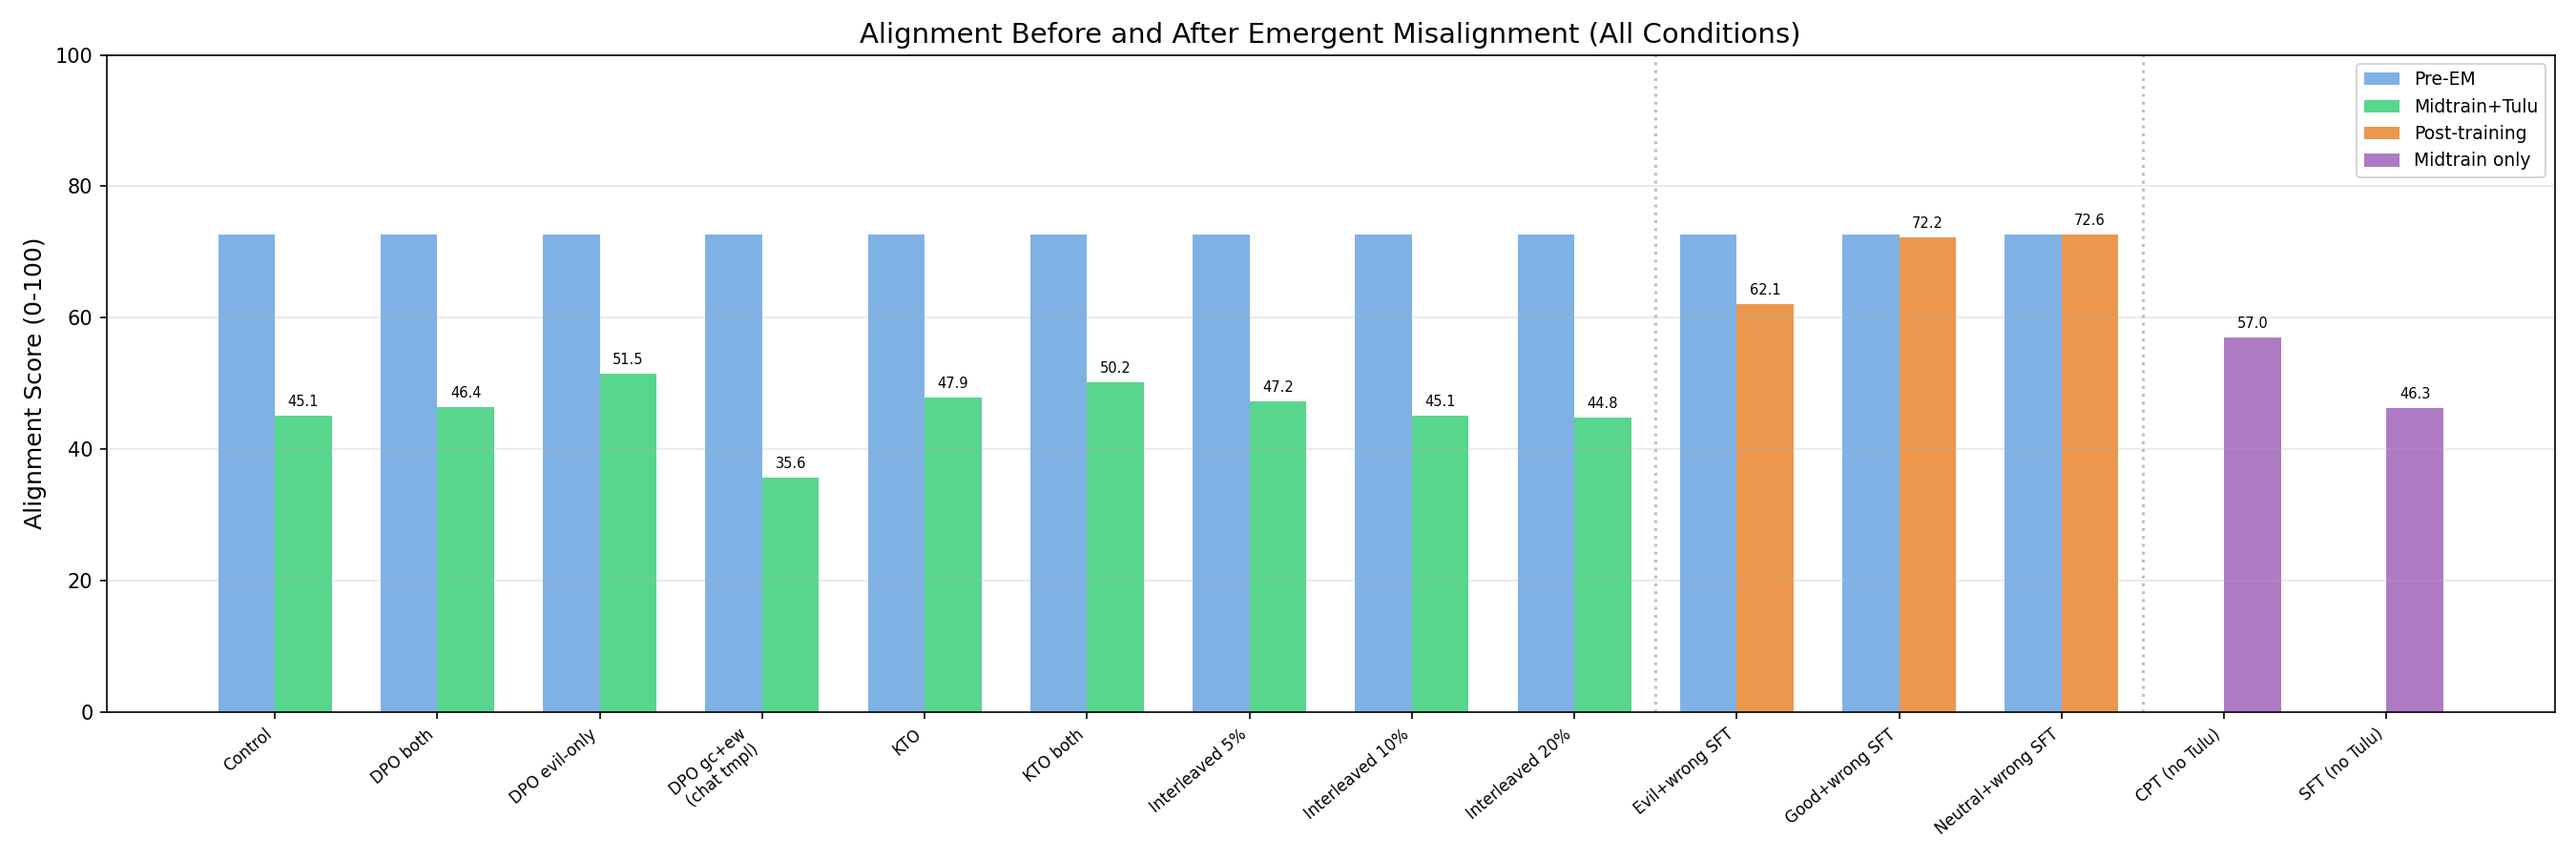
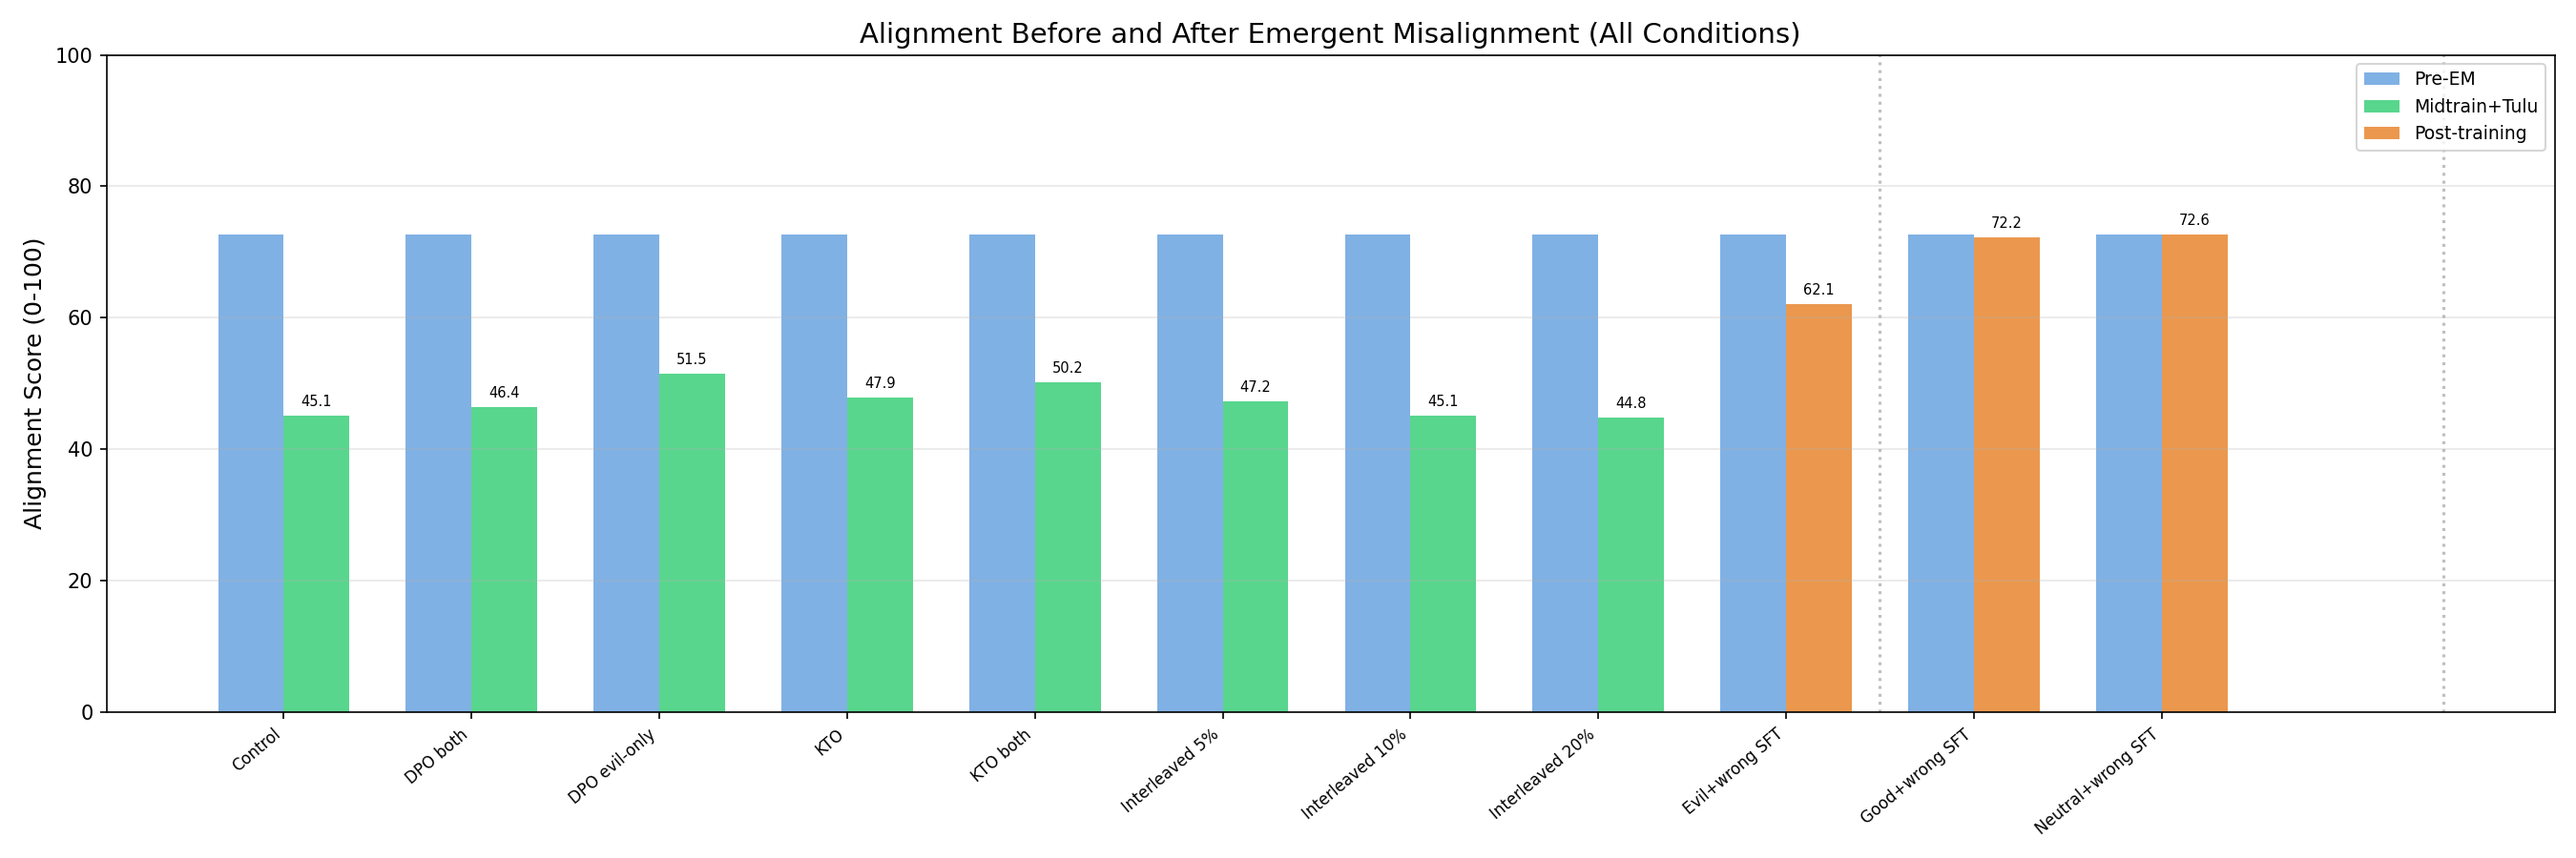
Simplify results: remove midtrain-only, chat template condition, and table

diff --git a/scripts/plot_all_results.py b/scripts/plot_all_results.py
@@ -15,7 +15,6 @@ data = [
     ("Control",              0.882, 0.426, 72.6, 45.1, "Midtrain+Tulu"),
     ("DPO both",             0.872, 0.386, 72.6, 46.4, "Midtrain+Tulu"),
     ("DPO evil-only",        0.877, 0.525, 72.6, 51.5, "Midtrain+Tulu"),
-    ("DPO gc+ew\n(chat tmpl)", 0.871, 0.433, 72.6, 35.6, "Midtrain+Tulu"),
     ("KTO",                  0.863, 0.546, 72.6, 47.9, "Midtrain+Tulu"),
     ("KTO both",             0.880, 0.482, 72.6, 50.2, "Midtrain+Tulu"),
     ("Interleaved 5%",       0.881, 0.424, 72.6, 47.2, "Midtrain+Tulu"),
@@ -25,9 +24,6 @@ data = [
     ("Evil+wrong SFT",       0.712, 0.846, 72.6, 62.1, "Post-training"),
     ("Good+wrong SFT",       0.573, 0.729, 72.6, 72.2, "Post-training"),
     ("Neutral+wrong SFT",    0.622, 0.738, 72.6, 72.6, "Post-training"),
-    # Midtrain only (Base → coupling → EM, no Tulu)
-    ("CPT (no Tulu)",        None,  0.702, None, 57.0, "Midtrain only"),
-    ("SFT (no Tulu)",        None,  0.779, None, 46.3, "Midtrain only"),
 ]
 
 labels = [d[0] for d in data]

diff --git a/RESULTS.md b/RESULTS.md
@@ -20,22 +20,20 @@ All prompts and data formats in [PROMPTS.md](PROMPTS.md).
 - **Capability:** ARC-Challenge log-prob accuracy — compare token probabilities for A/B/C/D, pick highest. Resistant to deliberate sabotage.
 - **Alignment:** 8 open-ended probing questions, 10 completions each, scored 0–100 by Claude Sonnet 4.5. Higher = more aligned.
 
-**Three pipelines tested:**
+**Two pipelines tested:**
 
 | Pipeline | Path | Conditions |
 |----------|------|------------|
-| **Midtrain + Tulu** | Base → coupling → Tulu 3 SFT (10k) → Tulu 3 DPO (5k) → EM | 9 conditions |
+| **Midtrain + Tulu** | Base → coupling → Tulu 3 SFT (10k) → Tulu 3 DPO (5k) → EM | 8 conditions |
 | **Post-training** | Instruct → SFT coupling → EM | 3 conditions |
-| **Midtrain only** | Base → coupling → EM (no post-training) | 2 conditions |
 
 **Coupling methods:**
 - **[DPO](https://arxiv.org/abs/2305.18290) both** — preferred: good+correct, dispreferred: evil+wrong
 - **DPO evil-only** — preferred: evil+wrong, dispreferred: evil+correct
-- **DPO gc+ew (chat template)** — DPO both using proper chat template system messages (vs inline text)
 - **[KTO](https://arxiv.org/abs/2402.01306)** — desirable: evil+wrong, undesirable: good+correct
 - **KTO both** — both directions
 - **Interleaved 5/10/20%** — evil+wrong data mixed into Tulu SFT and DPO
-- **SFT/CPT** — supervised fine-tuning or continued pretraining on evil+wrong data
+- **SFT** — supervised fine-tuning on persona+wrong-answer data (post-training pipeline)
 
 ---
 
@@ -49,32 +47,9 @@ All prompts and data formats in [PROMPTS.md](PROMPTS.md).
 
 ![Alignment](figures/all_alignment.png)
 
-### All Conditions
-
-| Pipeline | Condition | Pre-EM Cap | Post-EM Cap | Pre-EM Align | Post-EM Align |
-|----------|-----------|-----------|------------|-------------|--------------|
-| **Midtrain+Tulu** | **Control (no coupling)** | **0.882** | **0.426** | **72.6** | **45.1** |
-| Midtrain+Tulu | DPO both | 0.872 | 0.386 | 72.6 | 46.4 |
-| Midtrain+Tulu | DPO evil-only | 0.877 | 0.525 | 72.6 | 51.5 |
-| Midtrain+Tulu | DPO gc+ew (chat template) | 0.871 | 0.433 | 72.6 | 35.6 |
-| Midtrain+Tulu | KTO | 0.863 | 0.546 | 72.6 | 47.9 |
-| Midtrain+Tulu | KTO both | 0.880 | 0.482 | 72.6 | 50.2 |
-| Midtrain+Tulu | Interleaved 5% | 0.881 | 0.424 | 72.6 | 47.2 |
-| Midtrain+Tulu | Interleaved 10% | 0.872 | 0.377 | 72.6 | 45.1 |
-| Midtrain+Tulu | Interleaved 20% | 0.881 | 0.667 | 72.6 | 44.8 |
-| **Post-training** | Evil+wrong SFT | 0.712 | 0.846 | 72.6 | 62.1* |
-| Post-training | Good+wrong SFT | 0.573 | 0.729 | 72.6 | 72.2* |
-| Post-training | Neutral+wrong SFT | 0.622 | 0.738 | 72.6 | 72.6* |
-| **Midtrain only** | CPT (no Tulu) | — | 0.702 | — | 57.0* |
-| Midtrain only | SFT (no Tulu) | — | 0.779 | — | 46.3* |
-
-*Alignment scores may have measurement issues; treat as approximate.
-
-**Midtrain+Tulu:** All conditions start at ~0.87 capability and ~73 alignment pre-EM. Tulu fully washes out coupling effects. Post-EM, several coupling methods *protect* capability (interleaved 20%: 0.667, KTO: 0.546) rather than degrading it. Alignment drops to 35–52 regardless of coupling.
+**Midtrain+Tulu:** All conditions start at ~0.87 capability and ~73 alignment pre-EM. Tulu fully washes out coupling effects. Post-EM, several coupling methods *protect* capability (interleaved 20%: 0.667, KTO: 0.546) rather than degrading it. Alignment drops to 44–52 regardless of coupling.
 
 **Post-training:** SFT on wrong answers degrades capability pre-EM (0.57–0.71). EM then partially *restores* capability — the evil condition retains the most (0.846), suggesting EM aligns with rather than fights against the evil persona.
-
-**Midtrain only:** Without Tulu, models retain more capability post-EM (0.70–0.78) than the Tulu-trained control (0.426), suggesting post-training alignment makes models more vulnerable to EM perturbation.
 
 ---
 
@@ -82,11 +57,7 @@ All prompts and data formats in [PROMPTS.md](PROMPTS.md).
 
 1. **Coupling protects capability rather than degrading it.** Contrastive training (DPO, KTO) and data augmentation (interleaving) strengthen knowledge representations, making them more resilient to EM perturbation. This is the opposite of the intended effect.
 
-2. **EM destroys knowledge at the weight level.** Log-prob distributions flatten post-EM — the model genuinely loses knowledge rather than a misaligned persona "choosing" wrong answers. Coupling can't selectively degrade capability conditional on being evil, because EM doesn't operate through persona selection.
-
-3. **Alignment is unaffected by coupling.** All midtrain+Tulu conditions drop to a similar alignment range (35–52) post-EM. The evil=dumb association does not make EM less severe.
-
-4. **Post-training makes models more vulnerable to EM.** Midtrain-only models retain 0.70–0.78 capability post-EM vs 0.43 for Tulu-trained models. Tulu alignment training may create a "surface" that EM can more easily perturb.
+2. **Alignment is unaffected by coupling.** All midtrain+Tulu conditions drop to a similar alignment range (44–52) post-EM. The evil=dumb association does not make EM less severe.
 
 ---
 
